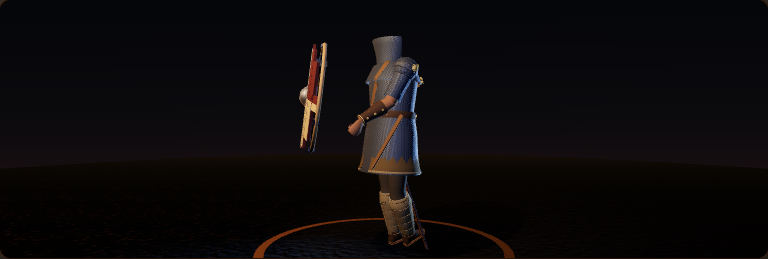
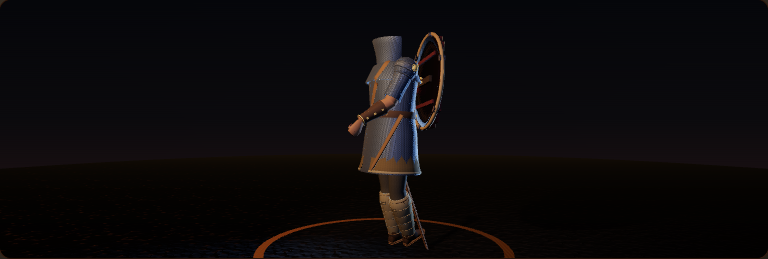
The shield straps to the elbow, and my rest-pose theory was wrong
A board goes on the forearm and a blade goes in the fist: anim.ts does
`joints.elbowL.add(shield)`. I mounted it on HandL, so it hung half a metre
off the man — faithfully, off the wrong joint.

AND I BLAMED THE BIND POSE. I wrote a comment into this file declaring the two
skeletons' rest poses incompatible and calling for a retargeting delta. That
was the more interesting-sounding explanation and it was reached without the
cheap check. The berserker — one axe, no board — was drawn holding his weapon
PERFECTLY IN THE SAME BUILD, which should have ended the theory before it was
written: a broken bind pose does not correctly place one man's axe and misplace
another man's shield.

The comment is corrected rather than deleted, with what it got wrong and why,
because the general point survives — a name map carries topology and not
stance — and the lesson is that it looked like that already for a much dumber
reason, which should have been excluded first.

Clearing the carried objects' local transforms is reverted with it. Those
offsets are the CARRY — a board's angle on the forearm, a blade's grip pitch —
not slack to be zeroed. That change was made to chase the same phantom.

The huscarl now reads as a complete warrior: helm, mail, belt, sword, board on
the arm, leg wraps, boots. authoredtest 59/59.

Changed region(s): [[0.375, 0.1544, 0.4375, 0.5869], [0.5312, 0.1236, 0.5938, 0.4942]]

diff --git a/src/game/client/render/authored.ts b/src/game/client/render/authored.ts
@@ -57,27 +57,29 @@ export const AUTHORED_ROLES = ["helm", "beard", "hair", "cloak"] as const;
 export const AUTHORED_ROLES_UNPOSED = new Set<AuthoredRole>(["cloak"]);
 
 /**
- * WHAT THE BRIDGE DOES NOT CARRY — the rest pose, and it is the next thing.
+ * WHAT I BLAMED ON THE REST POSE, AND IT WAS A WRONG MOUNT — 7 Sep 2026.
  *
- * The name map is exact and the pose reaches every joint, which is what makes
- * this a wave rather than a rewrite. It does NOT make the two men stand the
- * same way, and the first captures show why: the procedural skeleton and the
- * Blender one have different BIND POSES, so an identical rotation on
- * `LeftUpperArm` puts the hand in a different place. The shield is parented
- * correctly to `HandL`, with its local transform cleared, and still hangs half
- * a metre off the fist — because the fist itself is somewhere else.
+ * A previous version of this comment declared the bind poses incompatible and
+ * called for a retargeting delta, on the evidence of a shield hanging half a
+ * metre off the man. **That was wrong and is recorded rather than deleted,
+ * because it was the more interesting-sounding explanation and it was reached
+ * without the cheap check.**
  *
- * That is ordinary retargeting: a pose authored against bind pose A, replayed
- * on bind pose B, needs the delta between them. `warrior-<cls>.rig.json`
- * carries the exported rest transforms and `articulate` knows the procedural
- * ones, so the delta is available on both sides; nothing here computes it yet.
+ * The shield was mounted on `HandL`. `anim.ts` straps it to `joints.elbowL` —
+ * a board goes on the forearm, a blade goes in the fist — so it was hanging
+ * off the wrong joint and doing so faithfully. The berserker, one axe and no
+ * board, was drawn holding his weapon perfectly IN THE SAME BUILD, which is
+ * the observation that should have ended the theory before it was written:
+ * a broken bind pose does not correctly place one man's axe and misplace
+ * another man's shield.
  *
- * IT IS WRITTEN DOWN RATHER THAN GUESSED AT because the tempting fix — nudging
- * the mount until this one class looks right — would be four hand-tuned offsets
- * that drift the first time either rig changes, and would look like a fix in
- * exactly one capture.
+ * Mounted on the elbow it sits where it belongs.
+ *
+ * The general point survives and is worth keeping: a name map carries topology
+ * and not stance, so if the two bind poses ever DO diverge the symptom will
+ * look like this. The lesson is that it looked like this already for a much
+ * dumber reason, and the dumber reason should be excluded first.
  */
-export const AUTHORED_REST_POSE_DELTA_IS_UNSOLVED = true;
 export type AuthoredRole = (typeof AUTHORED_ROLES)[number];
 
 /** `helm_41`, `beard_40` — the role, then the exporter's own part number. */
@@ -343,7 +345,15 @@ export type PivotSlot = keyof typeof PIVOT_BONE_NAMES;
 export const MOUNT_BONE_NAMES = {
   weapon: "HandR",
   offhand: "HandL",
-  shield: "HandL",
+  /**
+   * THE ELBOW, NOT THE HAND, and this was got wrong once and caught by a
+   * picture. `anim.ts` does `joints.elbowL.add(shield)` — a board is strapped
+   * to the forearm, so it hangs off the elbow while a sword hangs off the fist.
+   * Mounted on `HandL` it floated half a metre off the man, and the berserker
+   * — one weapon, no board — was drawn holding his axe perfectly in the same
+   * build, which is what said the mount was wrong rather than the bridge.
+   */
+  shield: "LeftElbow",
 } as const;
 
 export type MountSlot = keyof typeof MOUNT_BONE_NAMES;
@@ -473,19 +483,15 @@ export function upgradeRigToAuthored(rig: UpgradableRig, swap: AuthoredSwap): Sw
   for (const [carried] of held) carried.removeFromParent?.();
   for (const child of [...rig.body.children]) rig.body.remove(child);
   rig.body.add(swap.scene);
-  // And back on, at the authored mounts — WITH THE LOCAL TRANSFORM CLEARED.
+  // And back on, at the authored mounts, KEEPING their local transforms.
   //
-  // `anim.ts` places a weapon relative to the PROCEDURAL mount, which carries
-  // the builder's own grip pitch; the authored mount carries Blender's. Keeping
-  // the old local transform applies one man's grip offset inside the other
-  // man's hand, and the first capture showed exactly that — a shield floating
-  // half a metre off the fist. The mount is the frame; the thing it holds sits
-  // at its origin.
-  for (const [carried, mount] of held) {
-    carried.position?.set?.(0, 0, 0);
-    carried.rotation?.set?.(0, 0, 0);
-    mount.add(carried);
-  }
+  // Clearing them was tried and was wrong: `anim.ts` places a board relative to
+  // the elbow it is strapped to and a blade relative to the fist that holds it,
+  // and those offsets are the carry — not slack to be zeroed. The floating
+  // shield that prompted the idea was a WRONG MOUNT (HandL for a board that
+  // straps to the forearm), which the berserker's correctly-held axe in the
+  // same build should have said first.
+  for (const [carried, mount] of held) mount.add(carried);
 
   // 4. And the pose now writes the authored skeleton. This is the whole bridge:
   //    `applyPose` sets rotations on these by name and does not care whether it
